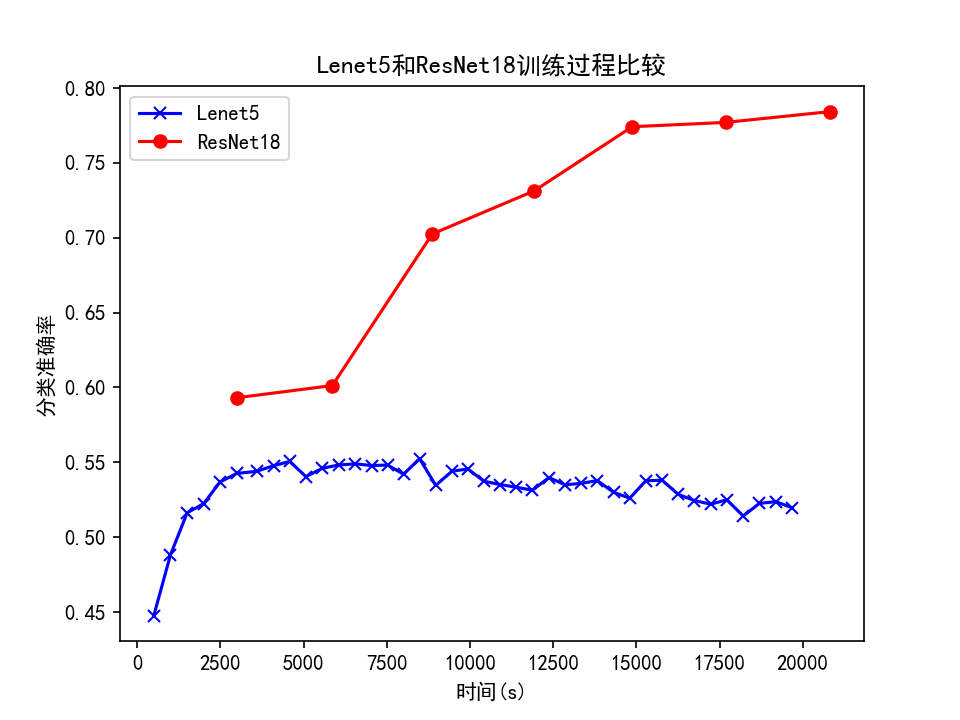
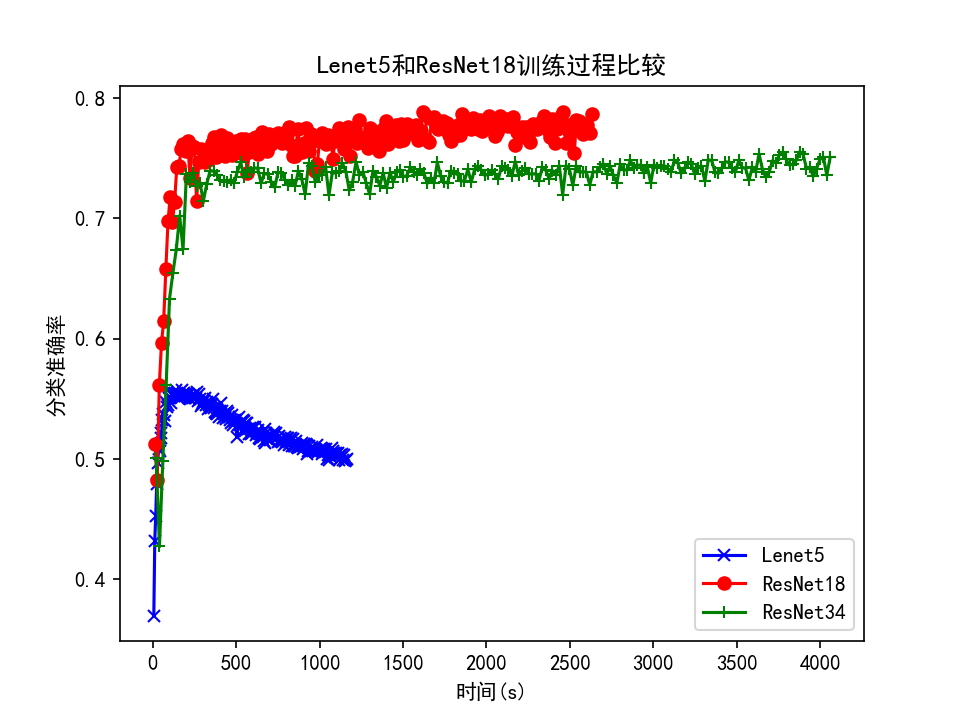
Add files via upload

diff --git a/resNet34.py b/resNet34.py
@@ -1,0 +1,118 @@
+import torch
+from torch import nn
+from torch.nn import functional as F
+
+
+class ResBlk1(nn.Module):
+    def __init__(self, ch_in, ch_out, stride=1):
+        super(ResBlk1, self).__init__()
+        self.conv1 = nn.Conv2d(ch_in, ch_out, kernel_size=3, stride=stride, padding=1)
+        self.bn1 = nn.BatchNorm2d(ch_out)
+        self.conv2 = nn.Conv2d(ch_out, ch_out, kernel_size=3, stride=1, padding=1)
+        self.bn2 = nn.BatchNorm2d(ch_out)
+        self.conv3 = nn.Conv2d(ch_out, ch_out, kernel_size=3, stride=1, padding=1)
+        self.bn3 = nn.BatchNorm2d(ch_out)
+
+        self.extra = nn.Sequential()
+        if ch_in != ch_out:
+            self.extra = nn.Sequential(
+                nn.Conv2d(ch_in, ch_out, kernel_size=1, stride=stride),
+                nn.BatchNorm2d(ch_out),
+            )
+
+    def forward(self, x):
+        out = F.relu(self.bn1(self.conv1(x)))
+        out = F.relu(self.bn2(self.conv2(out)))
+        out = self.bn3(self.conv3(out))
+        out = self.extra(x)+out
+        return out
+
+
+class ResBlk2(nn.Module):
+    def __init__(self, ch_in, ch_out, stride=1):
+        super(ResBlk2, self).__init__()
+        self.conv1 = nn.Conv2d(ch_in, ch_out, kernel_size=3, stride=stride, padding=1)
+        self.bn1 = nn.BatchNorm2d(ch_out)
+        self.conv2 = nn.Conv2d(ch_out, ch_out, kernel_size=3, stride=1, padding=1)
+        self.bn2 = nn.BatchNorm2d(ch_out)
+        self.conv3 = nn.Conv2d(ch_out, ch_out, kernel_size=3, stride=1, padding=1)
+        self.bn3 = nn.BatchNorm2d(ch_out)
+        self.conv4 = nn.Conv2d(ch_out, ch_out, kernel_size=3, stride=1, padding=1)
+        self.bn4 = nn.BatchNorm2d(ch_out)
+
+        self.extra = nn.Sequential()
+        if ch_in != ch_out:
+            self.extra = nn.Sequential(
+                nn.Conv2d(ch_in, ch_out, kernel_size=1, stride=stride),
+                nn.BatchNorm2d(ch_out),
+            )
+
+    def forward(self, x):
+        out = F.relu(self.bn1(self.conv1(x)))
+        out = F.relu(self.bn2(self.conv2(out)))
+        out = F.relu(self.bn3(self.conv3(out)))
+        out = self.bn4(self.conv4(out))
+        out = self.extra(x)+out
+        return out
+
+
+class ResBlk3(nn.Module):
+    def __init__(self, ch_in, ch_out, stride=1):
+        super(ResBlk3, self).__init__()
+        self.conv1 = nn.Conv2d(ch_in, ch_out, kernel_size=3, stride=stride, padding=1)
+        self.bn1 = nn.BatchNorm2d(ch_out)
+        self.conv2 = nn.Conv2d(ch_out, ch_out, kernel_size=3, stride=1, padding=1)
+        self.bn2 = nn.BatchNorm2d(ch_out)
+        self.conv3 = nn.Conv2d(ch_out, ch_out, kernel_size=3, stride=1, padding=1)
+        self.bn3 = nn.BatchNorm2d(ch_out)
+        self.conv4 = nn.Conv2d(ch_out, ch_out, kernel_size=3, stride=1, padding=1)
+        self.bn4 = nn.BatchNorm2d(ch_out)
+        self.conv5 = nn.Conv2d(ch_out, ch_out, kernel_size=3, stride=1, padding=1)
+        self.bn5 = nn.BatchNorm2d(ch_out)
+        self.conv6 = nn.Conv2d(ch_out, ch_out, kernel_size=3, stride=1, padding=1)
+        self.bn6 = nn.BatchNorm2d(ch_out)
+
+        self.extra = nn.Sequential()
+        if ch_in != ch_out:
+            self.extra = nn.Sequential(
+                nn.Conv2d(ch_in, ch_out, kernel_size=1, stride=stride),
+                nn.BatchNorm2d(ch_out),
+            )
+
+    def forward(self, x):
+        out = F.relu(self.bn1(self.conv1(x)))
+        out = F.relu(self.bn2(self.conv2(out)))
+        out = F.relu(self.bn3(self.conv3(out)))
+        out = F.relu(self.bn4(self.conv4(out)))
+        out = F.relu(self.bn5(self.conv5(out)))
+        out = self.bn4(self.conv6(out))
+        out = self.extra(x)+out
+        return out
+
+
+class ResNet34(nn.Module):
+    def __init__(self):
+        super(ResNet34, self).__init__()
+        self.conv1 = nn.Sequential(
+            nn.Conv2d(3, 64, kernel_size=3, stride=1, padding=1),
+            nn.BatchNorm2d(64),
+        )
+
+        self.blk1 = ResBlk1(64, 128, 2)
+        self.blk2 = ResBlk2(128, 256, 2)
+        self.blk3 = ResBlk3(256, 512, 2)
+        self.blk4 = ResBlk1(512, 512)
+
+        self.outlayer = nn.Linear(512*1*1, 10)
+
+    def forward(self, x):
+        x = F.relu(self.conv1(x))
+        out = self.blk1(x)
+        out = self.blk2(out)
+        out = self.blk3(out)
+        out = self.blk4(out)
+        X = F.adaptive_avg_pool2d(out, [1, 1])
+        X = X.view(X.size(0), -1)
+        out = self.outlayer(X)
+        return out
+
